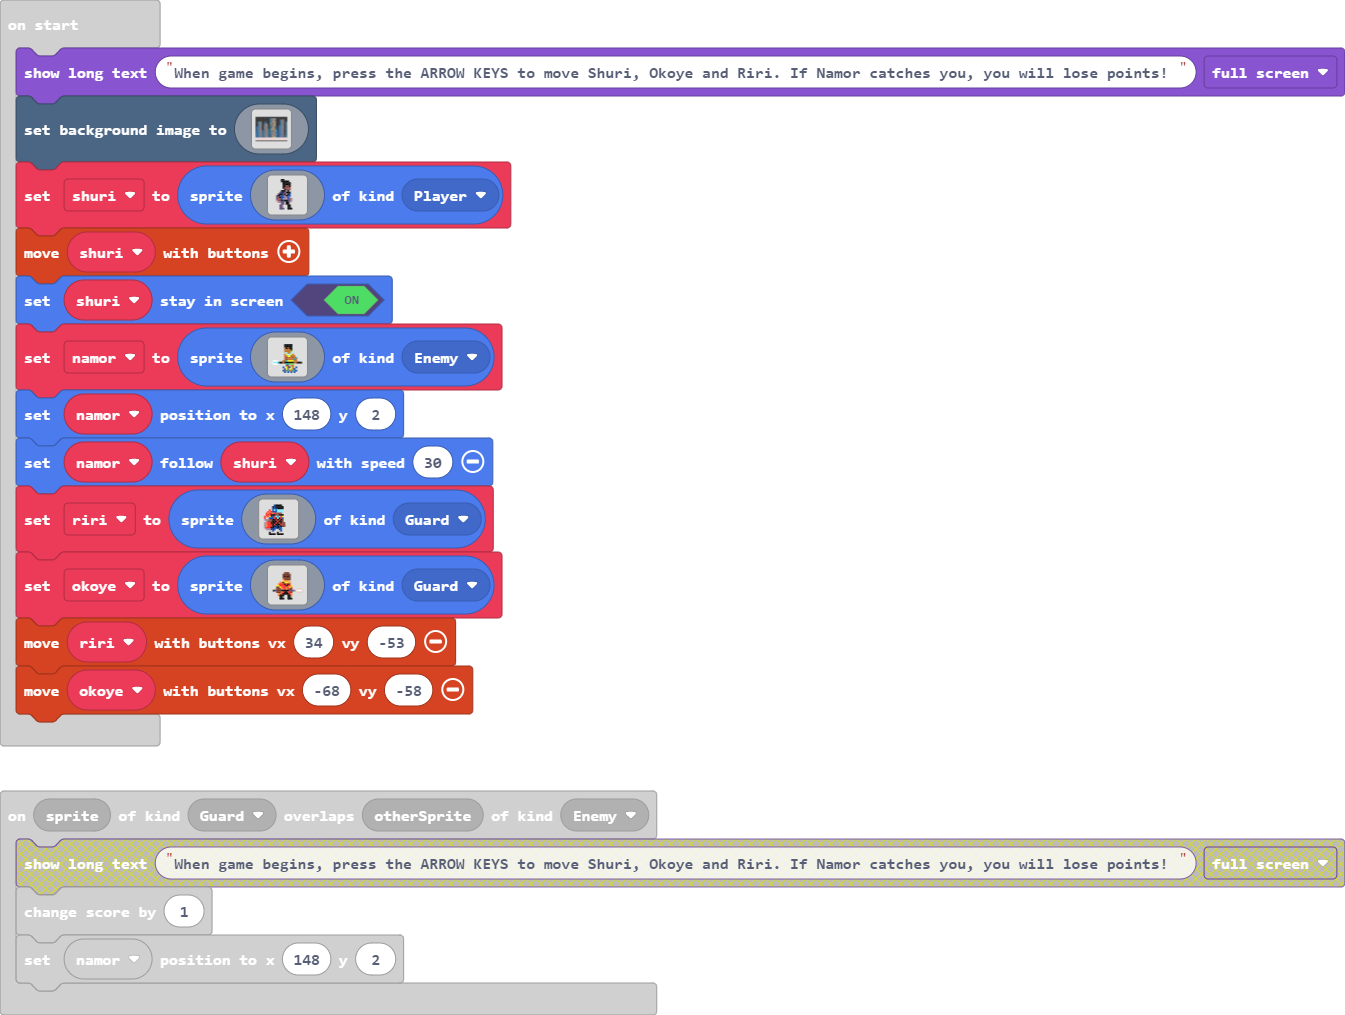
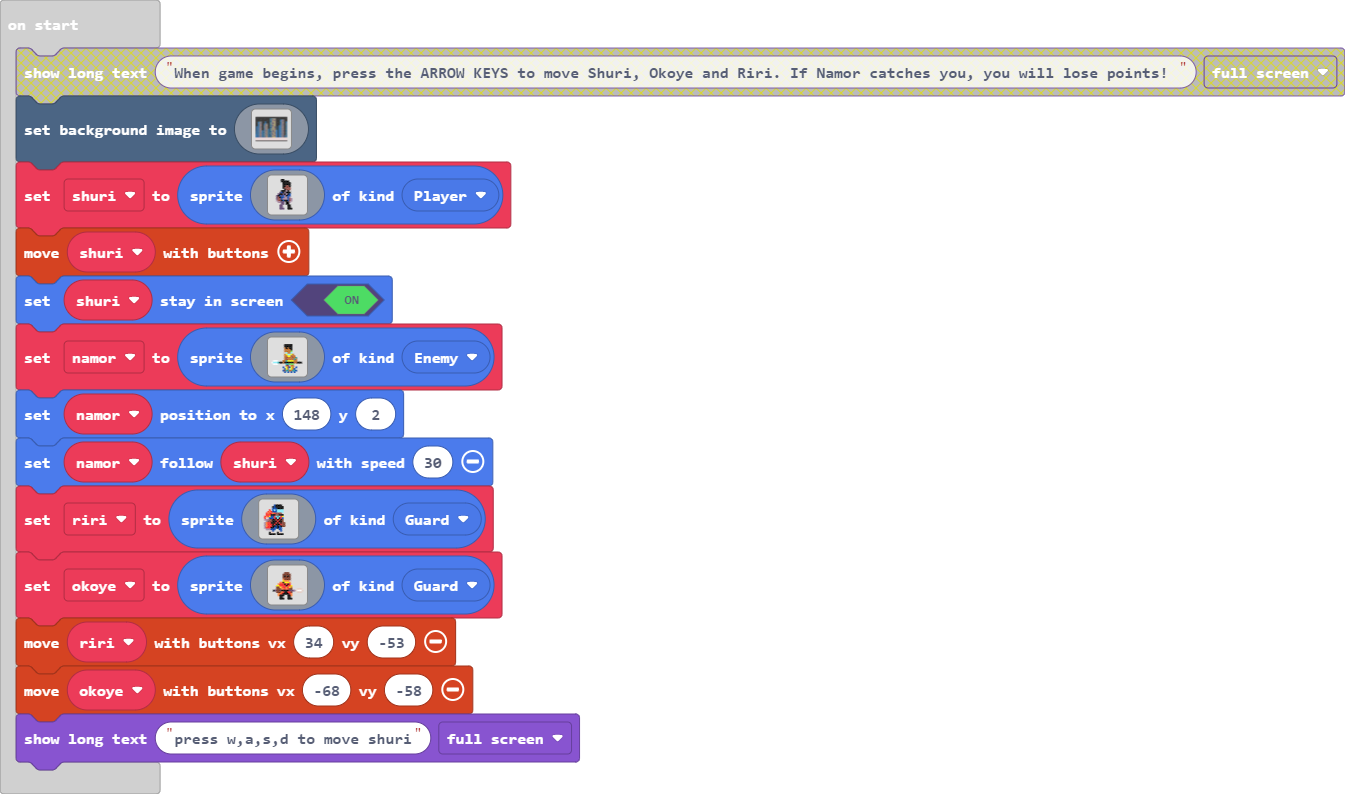
Update main.blocks, main.ts

diff --git a/main.ts b/main.ts
@@ -14,7 +14,7 @@ sprites.onOverlap(SpriteKind.Player, SpriteKind.Enemy, function (sprite, otherSp
 })
 let namor: Sprite = null
 let shuri: Sprite = null
-game.showLongText("When game begins, press the ARROW KEYS to move Shuri, Okoye and Riri. If Namor catches you, you will lose points! ", DialogLayout.Full)
+game.showLongText("press w,a,s,d to move shuri", DialogLayout.Full)
 scene.setBackgroundImage(assets.image`boston-bridge`)
 shuri = sprites.create(assets.image`shuri`, SpriteKind.Player)
 controller.moveSprite(shuri)
